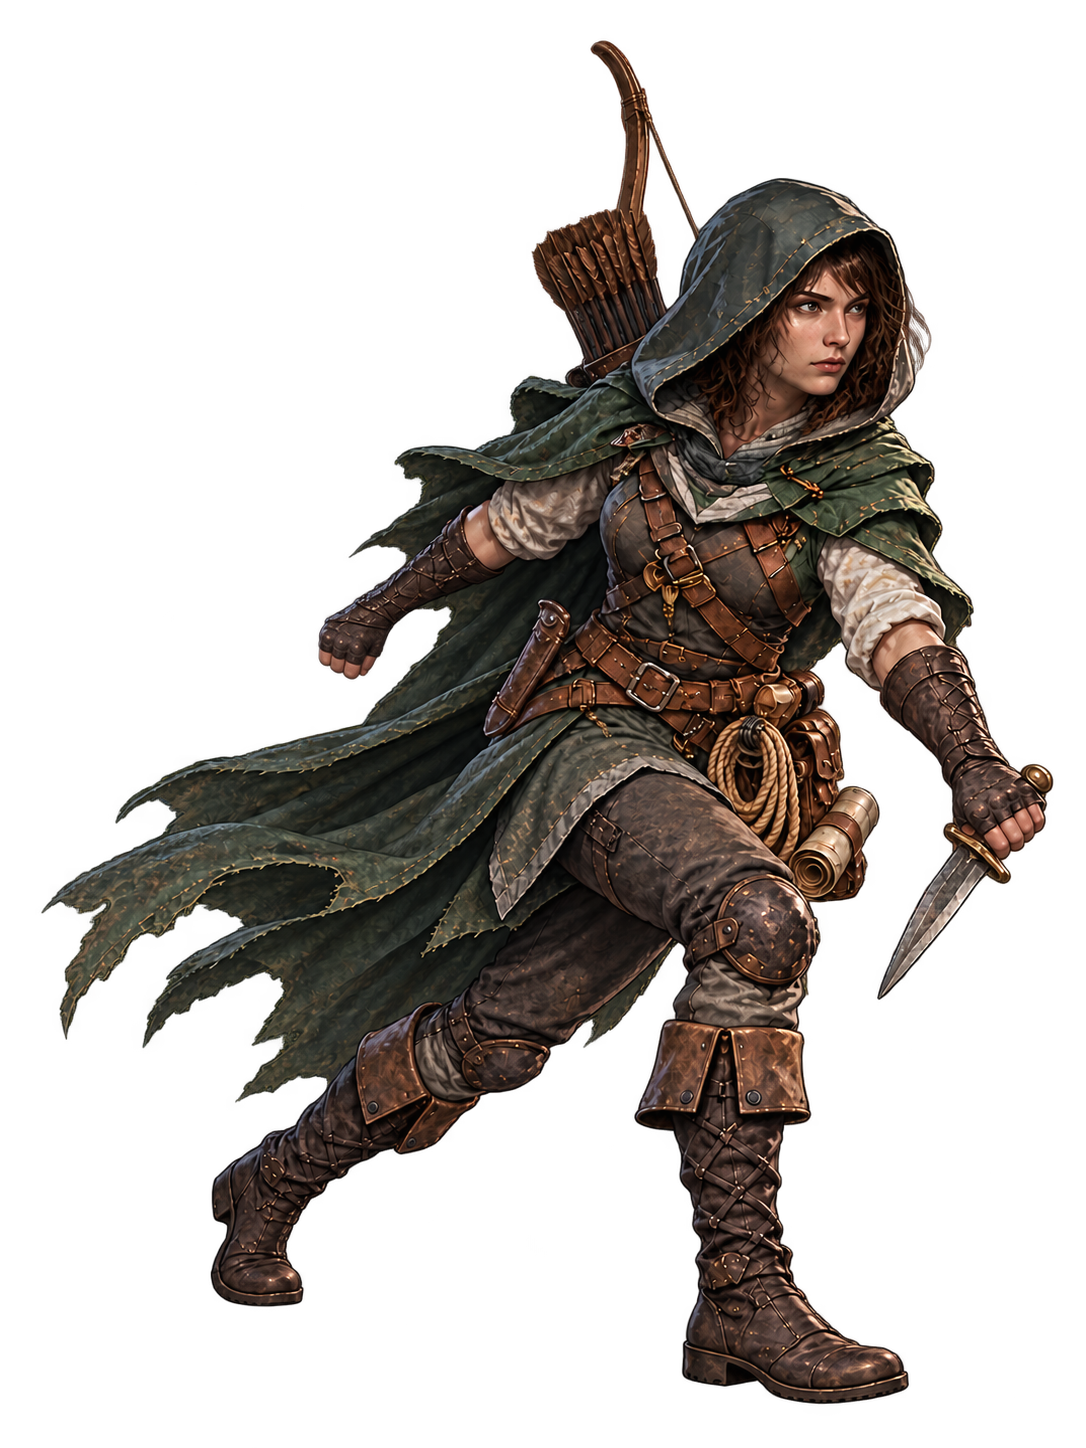
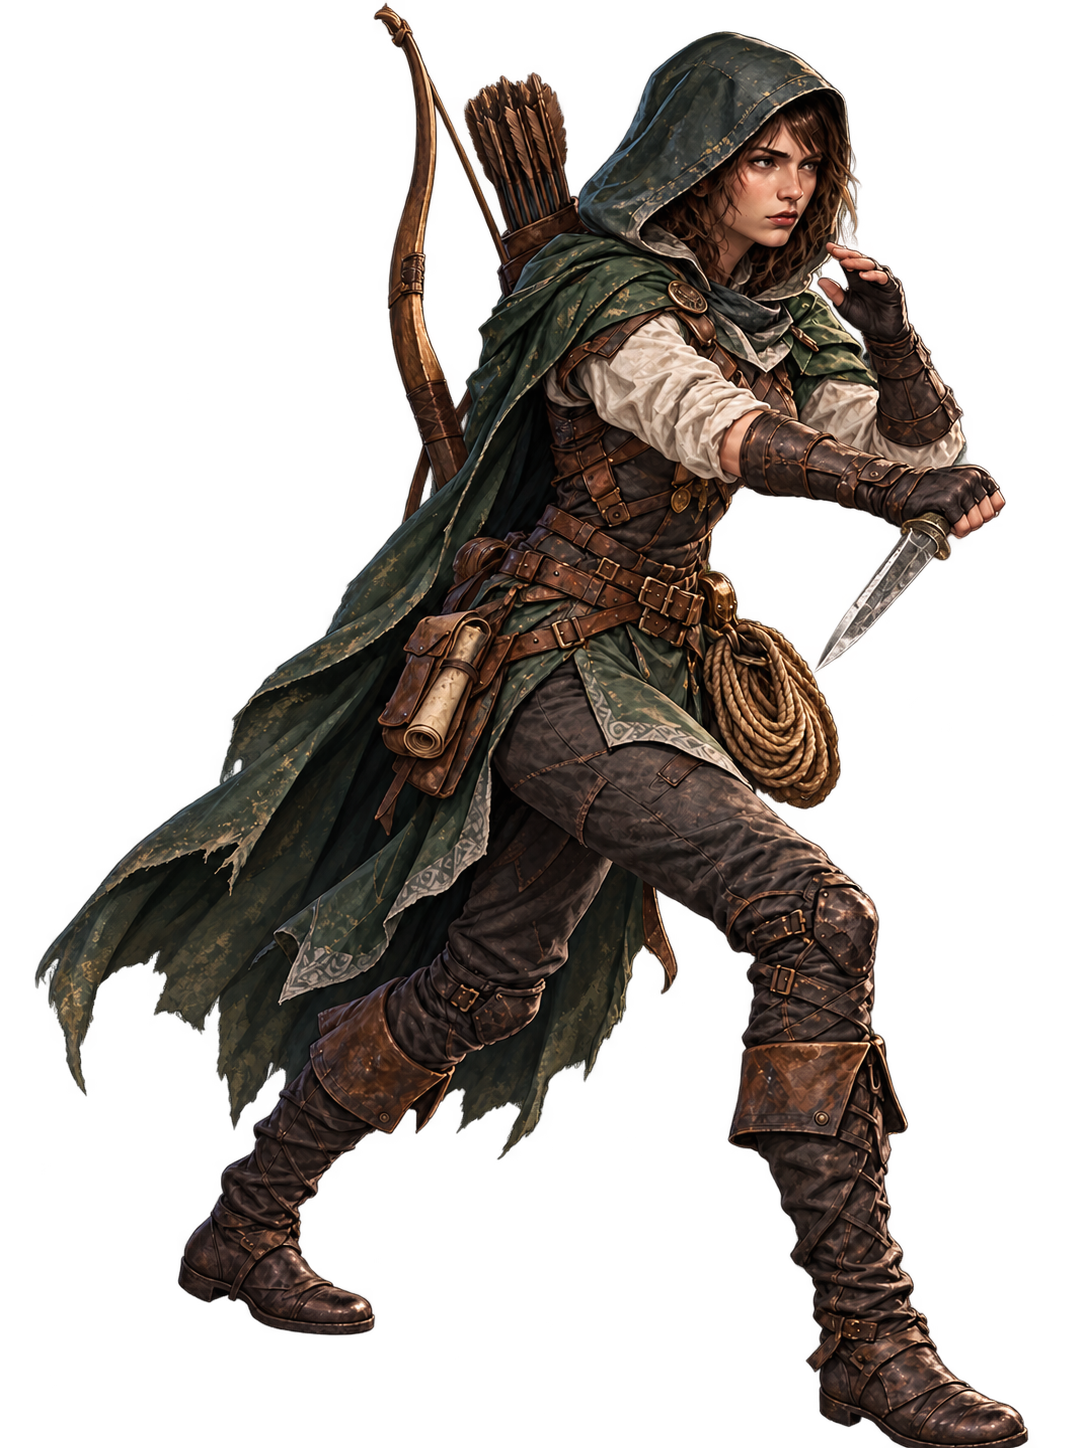
Accept Mira strike v9 with blade aligned to handle

diff --git a/docs/art-review/mira-poses-v2/attack-comparison.html b/docs/art-review/mira-poses-v2/attack-comparison.html
@@ -1,0 +1,1 @@
+<!doctype html><html lang="ru"><meta charset="utf-8"><style>*{box-sizing:border-box}body{margin:0;background:#20252b;color:#eee;font:17px Arial,sans-serif}header,footer{padding:20px 28px;background:#141a20}h1{color:#e3c58f;margin:0 0 10px;font-size:28px}p{margin:6px 0;color:#c5ccd4}.grid{display:grid;grid-template-columns:repeat(4,1fr)}article{border:1px solid #6b7177}.label{padding:12px 18px;background:#30373d}.label small{float:right;color:#b9c3cb}.stage{height:500px;position:relative;background:#555b61}.stage:after{position:absolute;content:'';left:0;right:0;top:96.05%;border-top:1px solid #d5ba83}.stage img{display:block;width:100%;height:100%;object-fit:contain}.refs{display:flex;gap:28px;padding:24px}.refs section{flex:1;padding:20px;background:#343b42}.refs img{max-width:100%;object-fit:contain}.full{height:760px}.face{height:380px}.lineup{height:270px}.attacks{display:flex}.attacks article{width:50%;background:#555b61}.attacks img{display:block;width:100%;height:960px;object-fit:contain}</style><header><h1>Мира · правка клинка</h1><p>V9 принята: клинок продолжает ось рукояти без Г-образного излома.</p></header><div class="attacks"><article><div class="label">V7 · до правки клинка</div><img src="../../../art-sources/poses/mira/alternatives/strike-v7-blade-rejected.png"></article><article><div class="label">V9 · принято</div><img src="../../../art-sources/poses/mira/proposals/strike.png"></article></div>

diff --git a/docs/art-review/mira-poses-v2/REPORT_RU.md b/docs/art-review/mira-poses-v2/REPORT_RU.md
@@ -2,14 +2,15 @@
 
 28.10.2026. Восемь цельных генеративных поз по ТЗ 2.1. Ветка `art/mira-poses-v2` основана на `main` (`1ce10f8`); изменения Брана в неё не включены.
 
-## Замечания к рукам
+## Принятая атака Миры
 
-- В первой версии `hit` рука с луком была неполной: между рукавом и кистью терялось предплечье. Во второй версии перерисована видимая непрерывная рука от плеча через локоть и наруч к кисти. Исходный вариант сохранён в `alternatives/hit-v1.png`.
-- Версии атаки `strike` 1–3 не прошли замечания пользователя к рукам. Для версии 3 пользователь указал область свободной кисти слева в кадре: x=30,9%, y=45,9%.
-- Локальная правка `strike` v4 сохранила деформированные пальцы и сдвинула фигуру; вариант отклонён.
-- В `strike` v5 отмеченная свободная кисть заменена свободно сжатым кулаком с соединённым запястьем. Это новый кандидат после замечаний, а не подтверждение художественной приёмки. [Крупное сравнение кисти](hand-detail.png).
+28.10.2026 пользователь принял последнюю версию `strike` v9: «Последний зачёт». Принятый PNG установлен в `art-sources/poses/mira/proposals/strike.png`; его SHA-256 и цитата приёмки записаны в `provenance.json`. Приёмка относится к этой позе.
 
-Последовательность хвата и сторон рук в `windup`/`strike`, кисть с ножом и мелкие детали экипировки остаются предметом художественной проверки. Технический валидатор их не оценивает. Ручная доводка и PSD/KRA не выполнены.
+В v9 устранён Г-образный излом ножа: клинок направлен вниз-влево и продолжает ось рукояти. Основа — v7, где остальная фигура устраивала пользователя. [Сравнение v7 и принятой v9](attack-comparison.png).
+
+Предыдущие варианты сохранены в `alternatives/`: v1–v6 отклонены по построению рук и корпуса, v7/v8 — по геометрии ножа. Первоначальная правка только свободной кисти не решала замечание к рукам целиком; [старое сравнение кисти](hand-detail.png) оставлено как история. Генеративная правка изменила также отдельные мелкие детали и кадрирование; принята именно последняя показанная версия, без последующей перерисовки.
+
+В `hit` v2 ранее восстановлена видимая непрерывная рука с луком; исходник v1 сохранён. Общая приёмка остальных поз и проверка переходов между ними не заявляются выполненными. Ручная ретушь и PSD/KRA не выполнены.
 
 ## Комплект
 
@@ -23,4 +24,4 @@
 
 Холст экспорта 537×768, стойка занимает 80% высоты. Точный размер пакета — в [build.json](build.json). [Строгий валидатор](validation.json) проверяет комплектность, альфу, размеры и бюджеты. Декодированная альфа экспорта и линия опоры проверяются отдельно в [export-measurements.json](export-measurements.json).
 
-Это художественный пилот: основной игровой реестр не изменён, в `main` ничего не объединялось. Проверка живого боя Миры и финальная сдача выполняются после завершения текущих замечаний к рисунку.
+Это художественный пилот: основной игровой реестр не изменён, в `main` ничего не объединялось. Проверка живого боя Миры и финальная сдача выполняются на следующем этапе интеграции.

diff --git a/art-sources/poses/mira/README_RU.md b/art-sources/poses/mira/README_RU.md
@@ -19,3 +19,7 @@ node tools/art/build_pose_gallery.mjs mira qa-fixtures/mira-poses-v2/mira/poses.
 `canvasPadding: [32, 24, 32, 24]` добавляет одинаковые прозрачные поля слева, сверху, справа и снизу в пикселях мастера; автоматический запас под масштабирование добавляется отдельно. `alignFeet` выравнивает стоящие позы по вертикали. `victory` масштабируется ×1,10. Точка опоры стойки по горизонтали задана между двумя ступнями (`pivot.x = 0.56`): автоматическая оценка по нижней полосе изображения принимала одну более низкую ступню за центр.
 
 Игровой реестр `public/art/v17/art-pack.json` не изменяется. Для проверки пилота: `http://localhost:5173/?qa=1&artpack=/qa-fixtures/mira-poses-v2/art-pack.json`. В обычной новой игре Миру надо добавить в отряд.
+
+## Приёмка атаки
+
+`strike` v9 принят пользователем 28.10.2026 («Последний зачёт»). Принятый PNG без дальнейшей художественной правки установлен в `proposals/strike.png`. Приёмка этой позы не означает автоматическую приёмку всего набора.

diff --git a/docs/art-review/mira-poses-v2/README.md b/docs/art-review/mira-poses-v2/README.md
@@ -2,6 +2,8 @@
 
 28.10.2026. Художественный пилот по ТЗ 2.1. Канонические лицо, капюшон, плащ, кожаный доспех, лук, колчан, верёвка и свиток служат основой всего набора.
 
+Атака `strike` v9 принята пользователем 28.10.2026 («Последний зачёт»).
+
 ![Восемь поз Миры](pose-sheet.png)
 
 | Поза | PNG-мастер |
@@ -17,6 +19,6 @@
 
 [Канонический опорный лист](reference-sheet.png) · [Исходники, инструменты и сборка](../../../art-sources/poses/mira/README_RU.md) · [Отчёт](REPORT_RU.md).
 
-[Свободная кисть в атаке: отклонённая версия и новая правка крупно](hand-detail.png).
+[Атака: принятая правка оси ножа, сравнение v7/v9](attack-comparison.png).
 
 Лист показывает реальный технический экспорт на одинаковых холстах с общей линией опоры. Статус ручной художественной доводки и оставшиеся замечания описаны в отчёте.
